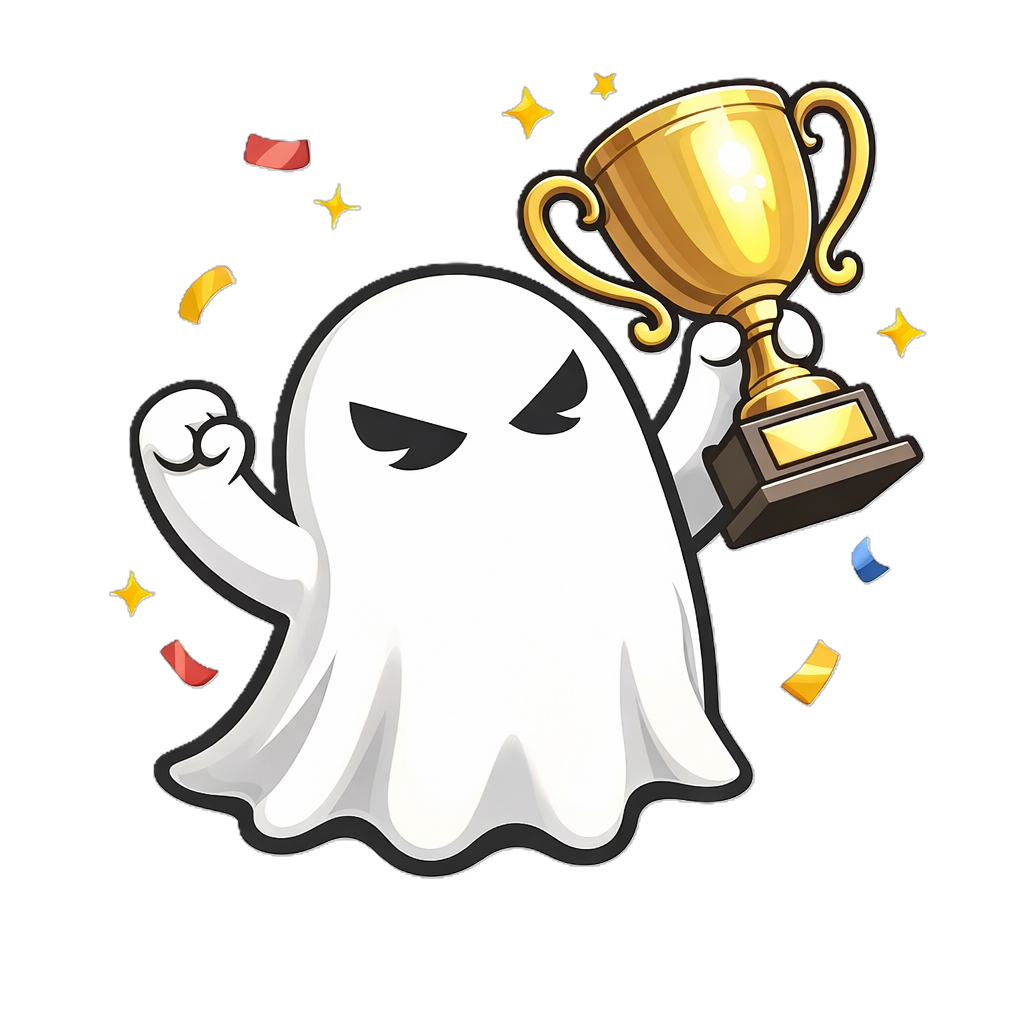
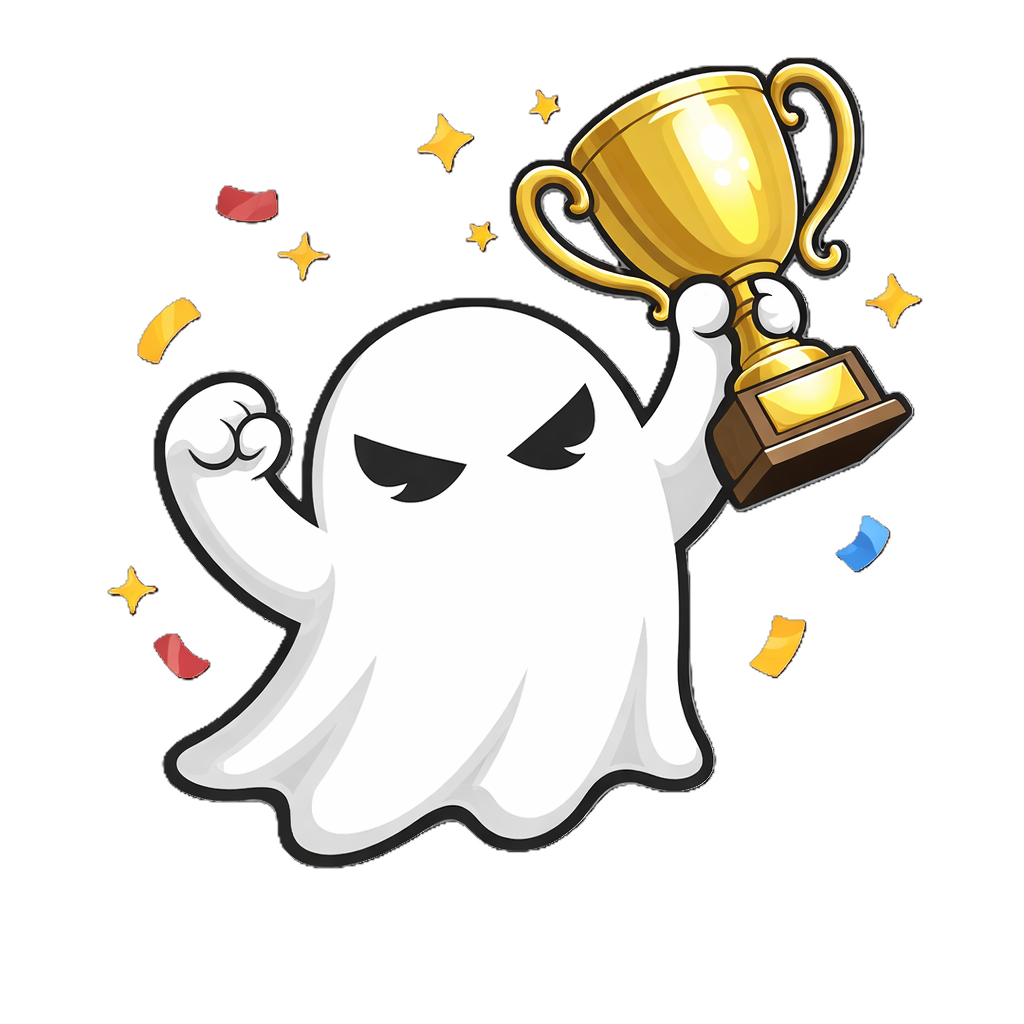
UI + backend: concurrent scenario cap (3 in-flight max); Incident Report no-autofill Description, Mitigation required, muted->red asterisk pattern; ghost-celebrate asset refresh

diff --git a/frontend/src/components/IncidentReportForm.jsx b/frontend/src/components/IncidentReportForm.jsx
@@ -74,6 +74,7 @@ const IncidentReportForm = ({ initialData = {}, onSubmit, onCancel, submitting, 
     if (!formData.title.trim()) newErrors.title = "Required";
     if (!formData.severity) newErrors.severity = "Required";
     if (!formData.description.trim()) newErrors.description = "Required";
+    if (!formData.mitigation.trim()) newErrors.mitigation = "Required";
 
     setErrors(newErrors);
     return Object.keys(newErrors).length === 0;
@@ -105,6 +106,9 @@ const IncidentReportForm = ({ initialData = {}, onSubmit, onCancel, submitting, 
   ];
 
   const inputClass = "w-full bg-[#0d1117] text-xs sm:text-sm text-white placeholder-gray-600 border border-gray-700 focus:border-[#5882b4] rounded-md px-3 py-2 outline-none transition-colors";
+  const requiredMark = (fieldName) => (
+    <span className={errors[fieldName] ? 'text-red-400' : 'text-gray-500'}> *</span>
+  );
 
   return (
     <div className={`text-white ${inline ? 'w-full' : 'p-8 w-full max-w-2xl bg-[#161b22] rounded-xl border border-gray-700 shadow-2xl'}`}>
@@ -129,7 +133,7 @@ const IncidentReportForm = ({ initialData = {}, onSubmit, onCancel, submitting, 
       {/* Form fields */}
       <div className="space-y-4">
         <div>
-          <label className="block text-xs text-gray-300 mb-1">Title{errors.title && <span className="text-red-400"> *</span>}</label>
+          <label className="block text-xs text-gray-300 mb-1">Title{requiredMark('title')}</label>
           <input
             name="title"
             value={formData.title}
@@ -140,7 +144,7 @@ const IncidentReportForm = ({ initialData = {}, onSubmit, onCancel, submitting, 
         </div>
 
         <div>
-          <label className="block text-xs text-gray-300 mb-1">Description{errors.description && <span className="text-red-400"> *</span>}</label>
+          <label className="block text-xs text-gray-300 mb-1">Description{requiredMark('description')}</label>
           <textarea
             name="description"
             value={formData.description}
@@ -163,7 +167,7 @@ const IncidentReportForm = ({ initialData = {}, onSubmit, onCancel, submitting, 
         </div>
 
         <div>
-          <label className="block text-xs text-gray-300 mb-1">Mitigation Steps</label>
+          <label className="block text-xs text-gray-300 mb-1">Mitigation Steps{requiredMark('mitigation')}</label>
           <textarea
             name="mitigation"
             value={formData.mitigation}

diff --git a/frontend/src/components/GroupedAlerts.jsx b/frontend/src/components/GroupedAlerts.jsx
@@ -1262,7 +1262,7 @@ const GroupedAlerts = ({ resetTrigger, onHardcoreFailure, onReset, isVisible, se
             <IncidentReportForm
               initialData={{
                 title: reportScenario.ticket_title || reportScenario.logs?.[0]?.level_name || '',
-                description: reportScenario.storyline || reportScenario.logs?.[0]?.storyline || '',
+                description: '',
                 severity: getHighestSeverity(reportScenario.severity_breakdown),
                 affected_hosts: [...new Set(reportScenario.logs.map(l => l.hostname).filter(Boolean))].join(', '),
                 scenario_id: reportScenario.scenario_id,

diff --git a/backend/app.py b/backend/app.py
@@ -23,6 +23,8 @@ os.makedirs(LOG_DIR, exist_ok=True)
 
 TIMER_DURATIONS = {1: 900, 2: 900, 3: 900, 4: 900, 5: 900}
 
+CONCURRENT_QUEUE_CAP = 3  # Max in-flight (injected, unresolved) scenarios
+
 def get_timer_duration(level):
     return TIMER_DURATIONS.get(level, 900)
 
@@ -2323,9 +2325,13 @@ def log_writer(session, interval=1):
         now = datetime.now(timezone.utc)
 
         # Drip: time to inject next queued scenario?
+        # Gate on concurrent cap: skip (don't advance timer) so the next drip
+        # fires immediately once a scenario resolves and capacity frees up.
+        in_flight = session["injected_count"] - session["resolved_count"]
         if (session["next_drip_at"] is not None
                 and now >= session["next_drip_at"]
-                and session["injected_count"] < len(session["alert_queue"])):
+                and session["injected_count"] < len(session["alert_queue"])
+                and in_flight < CONCURRENT_QUEUE_CAP):
             scenario_entry = session["alert_queue"][session["injected_count"]]
             chain_logs = build_attack_chain_logs(session, scenario_entry)
             if chain_logs:
